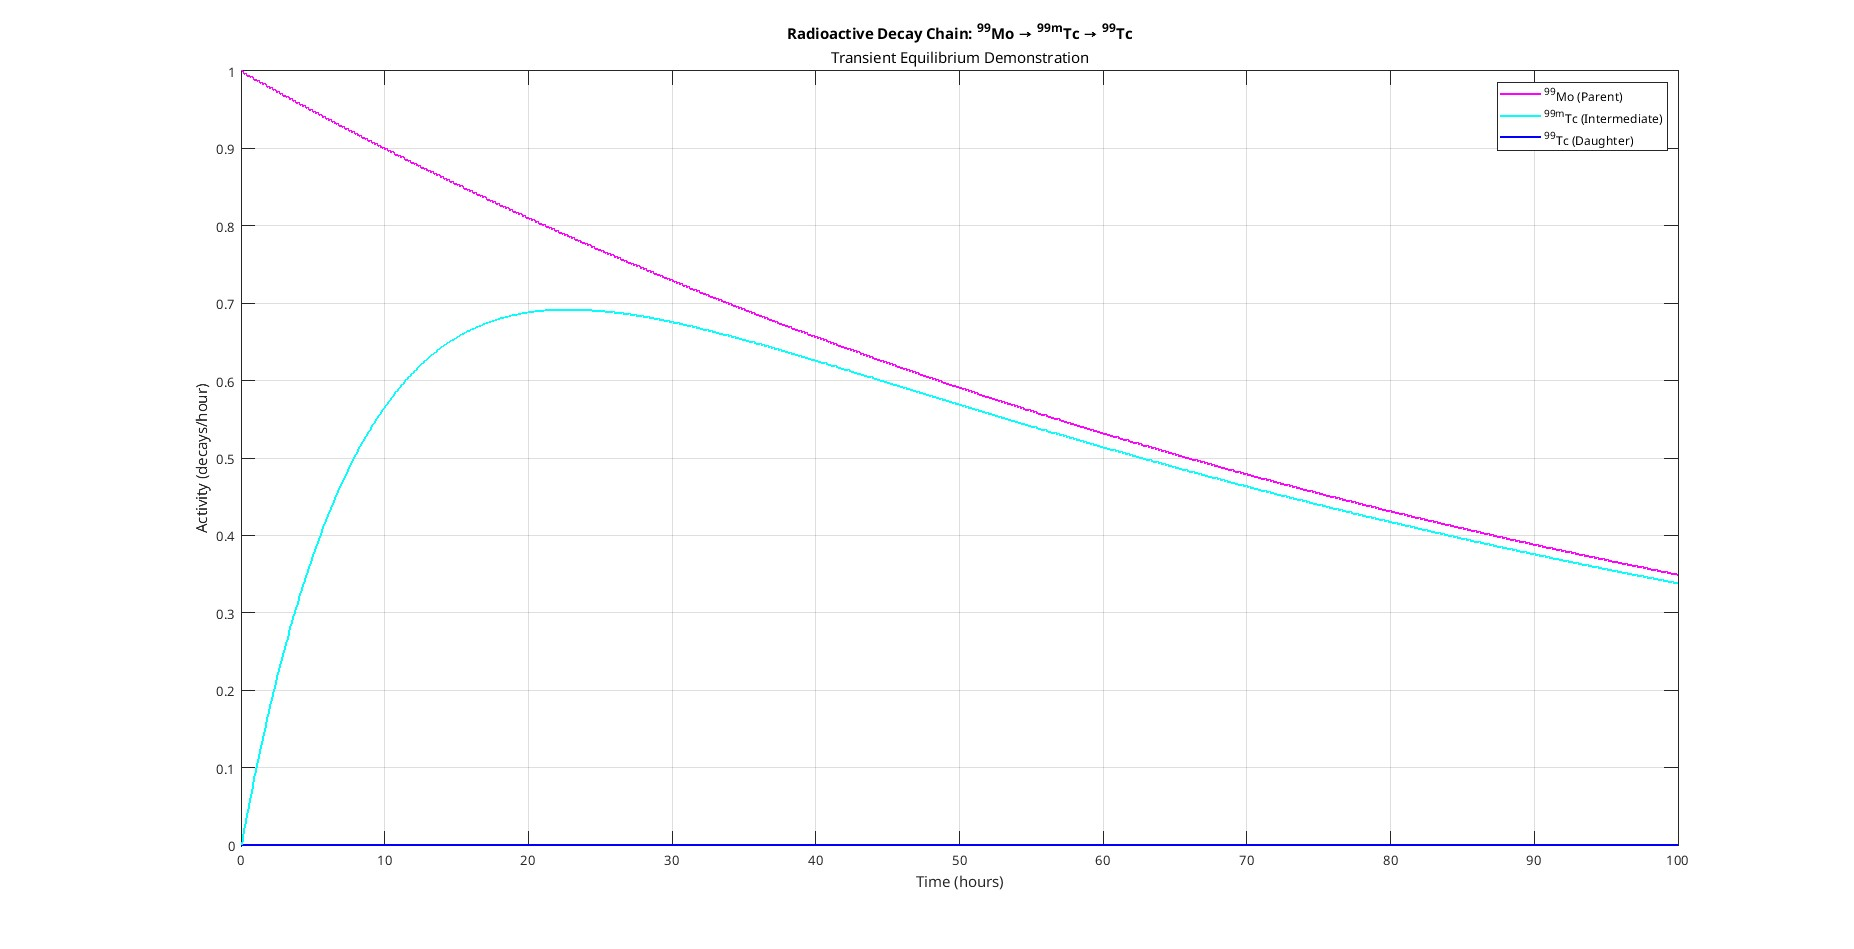
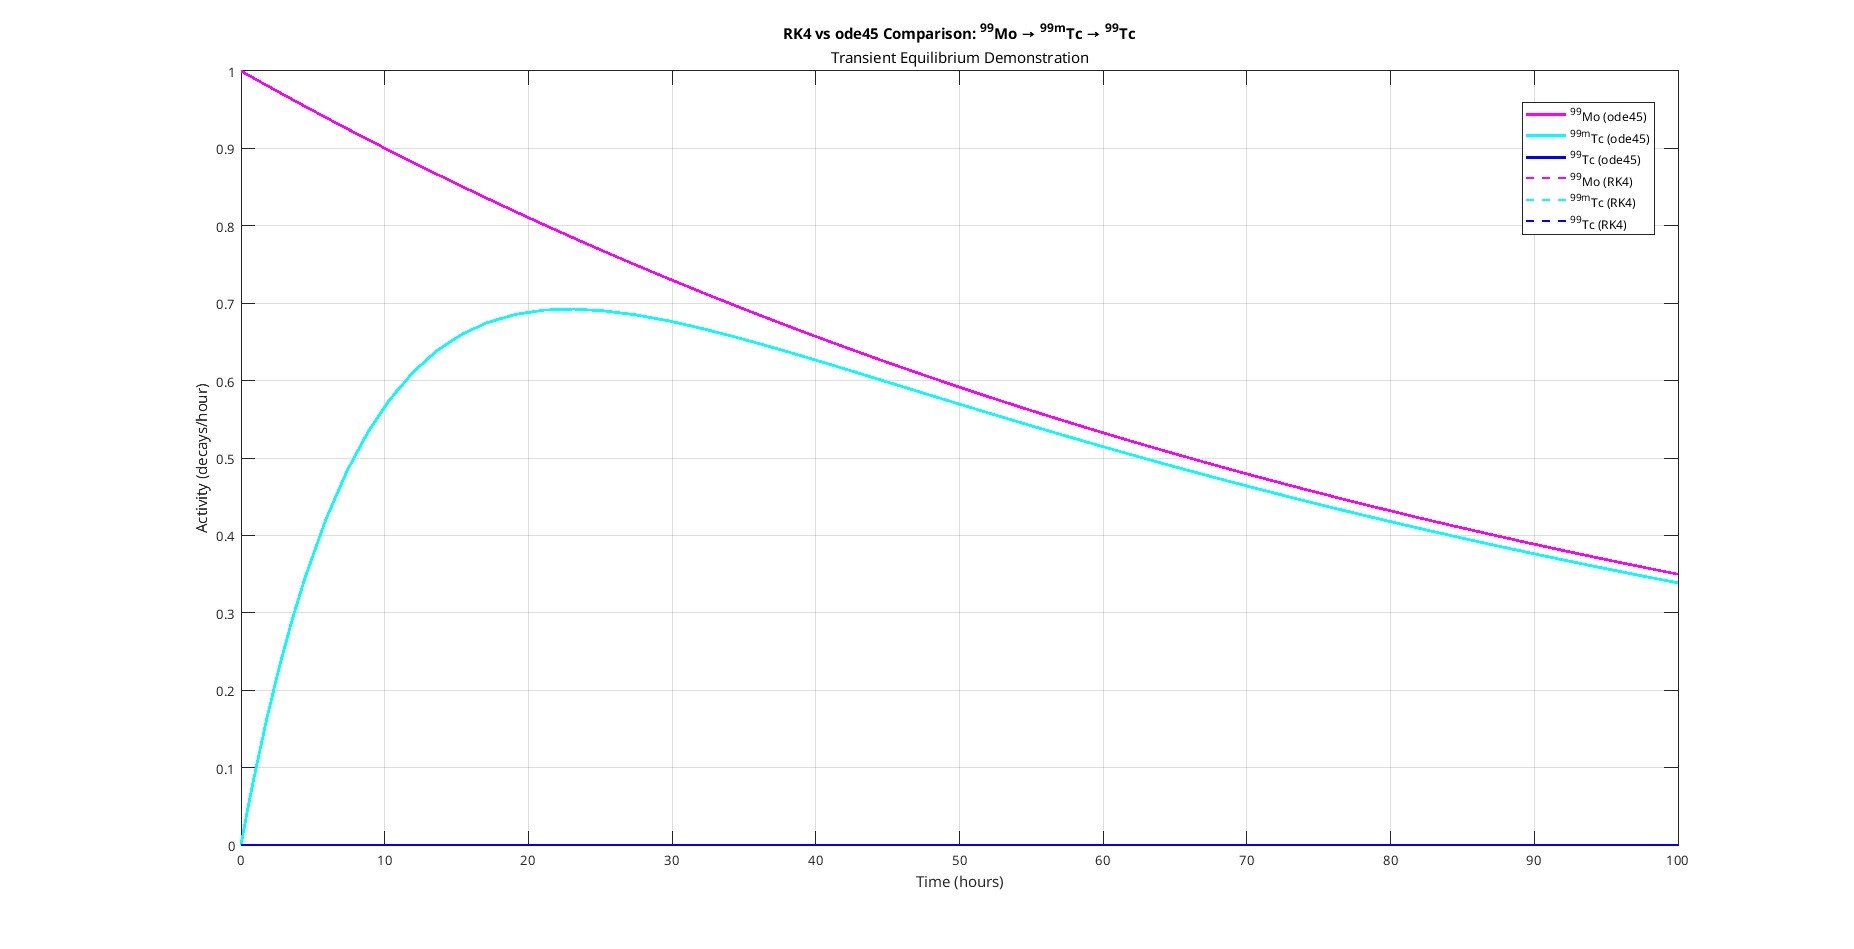
Added

diff --git a/Ass/Ass_3/b3.m b/Ass/Ass_3/b3.m
@@ -13,36 +13,54 @@ decayChain = @(t, N) [
 ];
 
 %% Initial conditions
-N0 = [1/lambda_Mo99, 0, 0];   % Initial number of nuclei
+N0 = [1/lambda_Mo99; 0; 0];   % Use column vector
 
 %% Time span
-tSpan = linspace(0, 100, 1000);  % hours
+tSpan = [0, 100];  % hours
 
-%% Solve the ODE system
-[t, N] = ode45(decayChain, tSpan, N0);
+%% Solve with ode45
+% Use a finer tSpan for ode45 output if needed, but [t0, tf] is fine for solving
+[t_ode45, N_ode45] = ode45(decayChain, tSpan, N0);
 
-%% Plot Activity vs Time (linear)
+%% Solve with rk4_solver
+h = 0.1; % Define step size for RK4
+[t_rk4, N_rk4] = rk4_solver(decayChain, tSpan, N0, h);
+
 figure;
-plot(t, lambda_Mo99*N(:,1), 'm', ...
-     t, lambda_Tc99m*N(:,2), 'c', ...
-     t, lambda_Tc99*N(:,3), 'b', 'LineWidth', 1.5);
+% ode45 results
+plot(t_ode45, lambda_Mo99*N_ode45(:,1), 'm-', 'LineWidth', 2, 'DisplayName', '^{99}Mo (ode45)'); hold on;
+plot(t_ode45, lambda_Tc99m*N_ode45(:,2), 'c-', 'LineWidth', 2, 'DisplayName', '^{99m}Tc (ode45)');
+plot(t_ode45, lambda_Tc99*N_ode45(:,3), 'b-', 'LineWidth', 2, 'DisplayName', '^{99}Tc (ode45)');
+
+% rk4 results
+plot(t_rk4, lambda_Mo99*N_rk4(:,1), 'm--', 'LineWidth', 1.5, 'DisplayName', '^{99}Mo (RK4)');
+plot(t_rk4, lambda_Tc99m*N_rk4(:,2), 'c--', 'LineWidth', 1.5, 'DisplayName', '^{99m}Tc (RK4)');
+plot(t_rk4, lambda_Tc99*N_rk4(:,3), 'b--', 'LineWidth', 1.5, 'DisplayName', '^{99}Tc (RK4)');
+hold off;
 
 xlabel('Time (hours)');
 ylabel('Activity (decays/hour)');
-legend('^{99}Mo (Parent)', '^{99m}Tc (Intermediate)', '^{99}Tc (Daughter)');
-title('Radioactive Decay Chain: ^{99}Mo → ^{99m}Tc → ^{99}Tc');
+legend('Location', 'best');
+title('RK4 vs ode45 Comparison: ^{99}Mo → ^{99m}Tc → ^{99}Tc');
 subtitle('Transient Equilibrium Demonstration');
 grid on;
 
 %% Plot Number of Atoms (semilog)
 figure;
-semilogy(t, N(:,1), 'm', 'DisplayName', '^{99}Mo'); hold on;
-semilogy(t, N(:,2), 'c', 'DisplayName', '^{99m}Tc');
-semilogy(t, N(:,3), 'b', 'DisplayName', '^{99}Tc');
+% ode45 results 
+semilogy(t_ode45, N_ode45(:,1), 'm-', 'LineWidth', 2, 'DisplayName', '^{99}Mo (ode45)'); hold on;
+semilogy(t_ode45, N_ode45(:,2), 'c-', 'LineWidth', 2, 'DisplayName', '^{99m}Tc (ode45)');
+semilogy(t_ode45, N_ode45(:,3), 'b-', 'LineWidth', 2, 'DisplayName', '^{99}Tc (ode45)');
+
+% rk4 results 
+semilogy(t_rk4, N_rk4(:,1), 'm--', 'LineWidth', 1.5, 'DisplayName', '^{99}Mo (RK4)');
+semilogy(t_rk4, N_rk4(:,2), 'c--', 'LineWidth', 1.5, 'DisplayName', '^{99m}Tc (RK4)');
+semilogy(t_rk4, N_rk4(:,3), 'b--', 'LineWidth', 1.5, 'DisplayName', '^{99}Tc (RK4)');
+hold off;
 
 xlabel('Time (hours)');
 ylabel('Relative Number of Atoms');
-legend('show');
-title('Radioactive Decay Chain of ^{99}Mo to ^{99}Tc');
+legend('Location', 'best');
+title('RK4 vs ode45 Comparison: Number of Atoms');
 subtitle('Transient Equilibrium');
 grid on;

diff --git a/Ass/Ass_3/a3.m b/Ass/Ass_3/a3.m
@@ -18,28 +18,42 @@ decayChain = @(t, N) [
 ];
 
 % Initial condition (atoms)
-N0 = [1/lambda_1, 0, 0];
+N0 = [1/lambda_1; 0; 0]; % Use column vector for consistency
 
 % Time span (in days)
 tSpan = [0, 1];
 
-% Solve ODEs
-[t, N] = ode45(decayChain, tSpan, N0);
+% Solve with ode45
+[t_ode45, N_ode45] = ode45(decayChain, tSpan, N0);
+% Compute activities
+A_Ce_ode45 = lambda_1 * N_ode45(:, 1);
+A_Pr_m_ode45 = lambda_2 * N_ode45(:, 2);
+A_Pr_ode45 = lambda_3 * N_ode45(:, 3);
 
-% Compute activities (A = λ * N)
-A_Ce = lambda_1 * N(:, 1);
-A_Pr_m = lambda_2 * N(:, 2);
-A_Pr = lambda_3 * N(:, 3);
+% Solve with rk4_solve
+h = 0.001; % Define a step size for RK4
+[t_rk4, N_rk4] = rk4_solver(decayChain, tSpan, N0, h);
+% Compute activities
+A_Ce_rk4 = lambda_1 * N_rk4(:, 1);
+A_Pr_m_rk4 = lambda_2 * N_rk4(:, 2);
+A_Pr_rk4 = lambda_3 * N_rk4(:, 3);
+
 
 figure;
-plot(t, A_Ce, 'b', 'LineWidth', 1.5); hold on;
-plot(t, A_Pr_m, 'r', 'LineWidth', 1.5);
-plot(t, A_Pr, 'g', 'LineWidth', 1.5);
+% Plot ode45 results 
+plot(t_ode45, A_Ce_ode45, 'b-', 'LineWidth', 2, 'DisplayName', '^{144}Ce (ode45)'); hold on;
+plot(t_ode45, A_Pr_m_ode45, 'r-', 'LineWidth', 2, 'DisplayName', '^{144m}Pr (ode45)');
+plot(t_ode45, A_Pr_ode45, 'g-', 'LineWidth', 2, 'DisplayName', '^{144}Pr (ode45)');
+
+% Plot rk4 results (
+plot(t_rk4, A_Ce_rk4, 'b--', 'LineWidth', 1.5, 'DisplayName', '^{144}Ce (RK4)');
+plot(t_rk4, A_Pr_m_rk4, 'r--', 'LineWidth', 1.5, 'DisplayName', '^{144m}Pr (RK4)');
+plot(t_rk4, A_Pr_rk4, 'g--', 'LineWidth', 1.5, 'DisplayName', '^{144}Pr (RK4)');
 hold off;
 
-legend('^{144}Ce', '^{144m}Pr', '^{144}Pr', 'Location', 'best');
+legend('Location', 'best');
 xlabel('Time (days)');
 ylabel('Activity (decays/day)');
-title('Radioactive Decay Chain: ^{144}Ce → ^{144m}Pr → ^{144}Pr');
+title('RK4 vs ode45 Comparison: ^{144}Ce → ^{144m}Pr → ^{144}Pr');
 subtitle('Secular Equilibrium Condition');
 grid on;

diff --git a/Ass/Ass_3/rk4_solver.m b/Ass/Ass_3/rk4_solver.m
@@ -1,0 +1,53 @@
+function [t, y] = rk4_solver(odefun, tspan, y0, h)
+% rk4_solver Solves a system of ODEs using the classic 4th-order Runge-Kutta method.
+%
+%   Inputs:
+%       odefun - Function handle for the ODE system, f(t, y).
+%       tspan  - Time interval [t0, tf].
+%       y0     - Initial conditions (column vector).
+%       h      - Step size (scalar).
+%
+%   Outputs:
+%       t      - Vector of time points.
+%       y      - Solution matrix, where each row corresponds to a time
+%                point in t and each column is a state variable.
+
+    % Ensure y0 is a column vector for calculations
+    if isrow(y0)
+        y0 = y0';
+    end
+
+    % Create the time vector
+    t0 = tspan(1);
+    tf = tspan(2);
+    t = (t0:h:tf)';
+    
+    % Get number of steps and number of equations
+    num_steps = length(t);
+    num_eqns = length(y0);
+    
+    % Initialize the solution matrix
+    y = zeros(num_steps, num_eqns);
+    
+    % Set the initial condition
+    y(1, :) = y0'; % Store as a row
+    
+    % Perform the RK4 iteration
+    for i = 1:(num_steps - 1)
+        % Get current time and state (as a column vector)
+        ti = t(i);
+        yi = y(i, :)';
+        
+        % Calculate the four RK4 "slopes"
+        k1 = odefun(ti, yi);
+        k2 = odefun(ti + 0.5*h, yi + 0.5*h*k1);
+        k3 = odefun(ti + 0.5*h, yi + 0.5*h*k2);
+        k4 = odefun(ti + h, yi + h*k3);
+        
+        % Calculate the next state
+        y_next = yi + (h/6) * (k1 + 2*k2 + 2*k3 + k4);
+        
+        % Store the next state as a row
+        y(i+1, :) = y_next';
+    end
+end

diff --git a/Ass/Ass_3/c32.m b/Ass/Ass_3/c32.m
@@ -11,22 +11,37 @@ decayChain = @(t, N) [
 ];
 
 %% Initial conditions
-N0 = [1/lambda_Xe138, 0];  % Initial number of nuclei
+N0 = [1/lambda_Xe138; 0];  % Use column vector
 
 %% Time span (minutes)
 tSpan = [0 400];
 
-%% Solve the ODE system
-[t, N] = ode45(decayChain, tSpan, N0);
+%% Solve with ode45
+[t_ode45, N_ode45] = ode45(decayChain, tSpan, N0);
+% Compute activities
+A_Xe_ode45 = lambda_Xe138 * N_ode45(:,1);
+A_Cs_ode45 = lambda_Cs138 * N_ode45(:,2);
 
-%% Plot Activity vs Time
+%% Solve with rk4_solver
+h = 0.5; % Define step size for RK4
+[t_rk4, N_rk4] = rk4_solver(decayChain, tSpan, N0, h);
+% Compute activities
+A_Xe_rk4 = lambda_Xe138 * N_rk4(:,1);
+A_Cs_rk4 = lambda_Cs138 * N_rk4(:,2);
+
 figure;
-plot(t, lambda_Xe138*N(:,1), 'm-', ...
-     t, lambda_Cs138*N(:,2), 'b-', 'LineWidth', 1.5);
+% ode45 results 
+plot(t_ode45, A_Xe_ode45, 'm-', 'LineWidth', 2, 'DisplayName', '^{138}Xe (ode45)'); hold on;
+plot(t_ode45, A_Cs_ode45, 'b-', 'LineWidth', 2, 'DisplayName', '^{138}Cs (ode45)');
+
+% rk4 results 
+plot(t_rk4, A_Xe_rk4, 'm--', 'LineWidth', 1.5, 'DisplayName', '^{138}Xe (RK4)');
+plot(t_rk4, A_Cs_rk4, 'b--', 'LineWidth', 1.5, 'DisplayName', '^{138}Cs (RK4)');
+hold off;
 
 xlabel('Time (minutes)');
 ylabel('Activity (decays/min)');
-legend('^{138}Xe (Parent)', '^{138}Cs (Daughter)', 'Location', 'northeast');
-title('Radioactive Decay of ^{138}Xe → ^{138}Cs');
+legend('Location', 'northeast');
+title('RK4 vs ode45 Comparison: ^{138}Xe → ^{138}Cs');
 subtitle('No Equilibrium');
 grid on;

diff --git a/Ass/Ass_1/a_buildupfactor.m b/Ass/Ass_1/a_buildupfactor.m
@@ -1,0 +1,43 @@
+clear; clc; close all;
+
+data= readtable('GP_fitting_parameters.xlsx');
+E= data.E;
+a= data.a;
+b= data.b;
+c= data.c;
+d= data.d;
+Xk=data.Xk;
+a1= data.a_1;
+b1= data.b_1;
+c1= data.c_1;
+d1= data.d_1;
+Xk1= data.Xk_1;
+X_values= 1:40; %MFP
+E_values= E([1 9 17 19]);
+a_values= a([1 9 17 19]);
+b_values= b([1 9 17 19]);
+c_values= c([1 9 17 19]);
+d_values= d([1 9 17 19]);
+Xk_values=Xk([1 9 17 19]);
+a1_values= a1([1 9 17 19]);
+b1_values= b1([1 9 17 19]);
+c1_values= c1([1 9 17 19]);
+d1_values= d1([1 9 17 19]);
+Xk1_values=Xk1([1 9 17 19]);
+
+% The entries of K for the given energies never reaches exactly
+% 1(calculated). Thus only the first equation is used
+K= (c_values.*(X_values.^a_values)) + ((d_values.*(tanh((X_values./Xk_values)-2)-tanh(-2)))./(1-tanh(-2)));
+EBF= 1 + (((b_values-1).*((K.^X_values)-1))./(K-1));
+K1= (c1_values.*(X_values.^a1_values)) + ((d1_values.*(tanh((X_values./Xk1_values)-2)-tanh(-2)))./(1-tanh(-2)));
+EABF= 1 + (((b1_values-1).*((K1.^X_values)-1))./(K1-1));
+
+figure;hold on;
+plot(X_values,EBF,'-r');
+plot(X_values,EABF,'-g');
+xlabel('Penetration Depth(MFP) ');
+ylabel('Build up Factor');
+title('B vs X at photon energies .015,0.15,1.5,3.0 ;Red is EBF ');
+hold off;
+grid on;
+

diff --git a/Ass/Ass_1/b_buildupfactor.m b/Ass/Ass_1/b_buildupfactor.m
@@ -1,0 +1,33 @@
+clear; clc; close all;
+
+data= readtable('GP_fitting_parameters.xlsx');
+E= data.E;
+a= data.a;
+b= data.b;
+c= data.c;
+d= data.d;
+Xk=data.Xk;
+a1= data.a_1;
+b1= data.b_1;
+c1= data.c_1;
+d1= data.d_1;
+Xk1= data.Xk_1;
+X_values= [1,5,10,40]; %MFP
+
+
+% The entries of K for the given energies never reaches exactly
+% 1(calculated). Thus only the first equation is used
+K= (c.*(X_values.^a)) + ((d.*(tanh((X_values./Xk)-2)-tanh(-2)))./(1-tanh(-2)));
+EBF= 1 + (((b-1).*((K.^X_values)-1))./(K-1));
+K1= (c1.*(X_values.^a1)) + ((d1.*(tanh((X_values./Xk1)-2)-tanh(-2)))./(1-tanh(-2)));
+EABF= 1 + (((b1-1).*((K1.^X_values)-1))./(K1-1));
+
+figure;hold on;
+plot(E,EBF,'-r');
+plot(E,EABF,'-g');
+xlabel('Photon Energy(MeV) ');
+ylabel('Build up Factor');
+title('B vs E at penetration depth 1,5,10,40 MFP;Red is EBF ');
+hold off;
+grid on;
+
